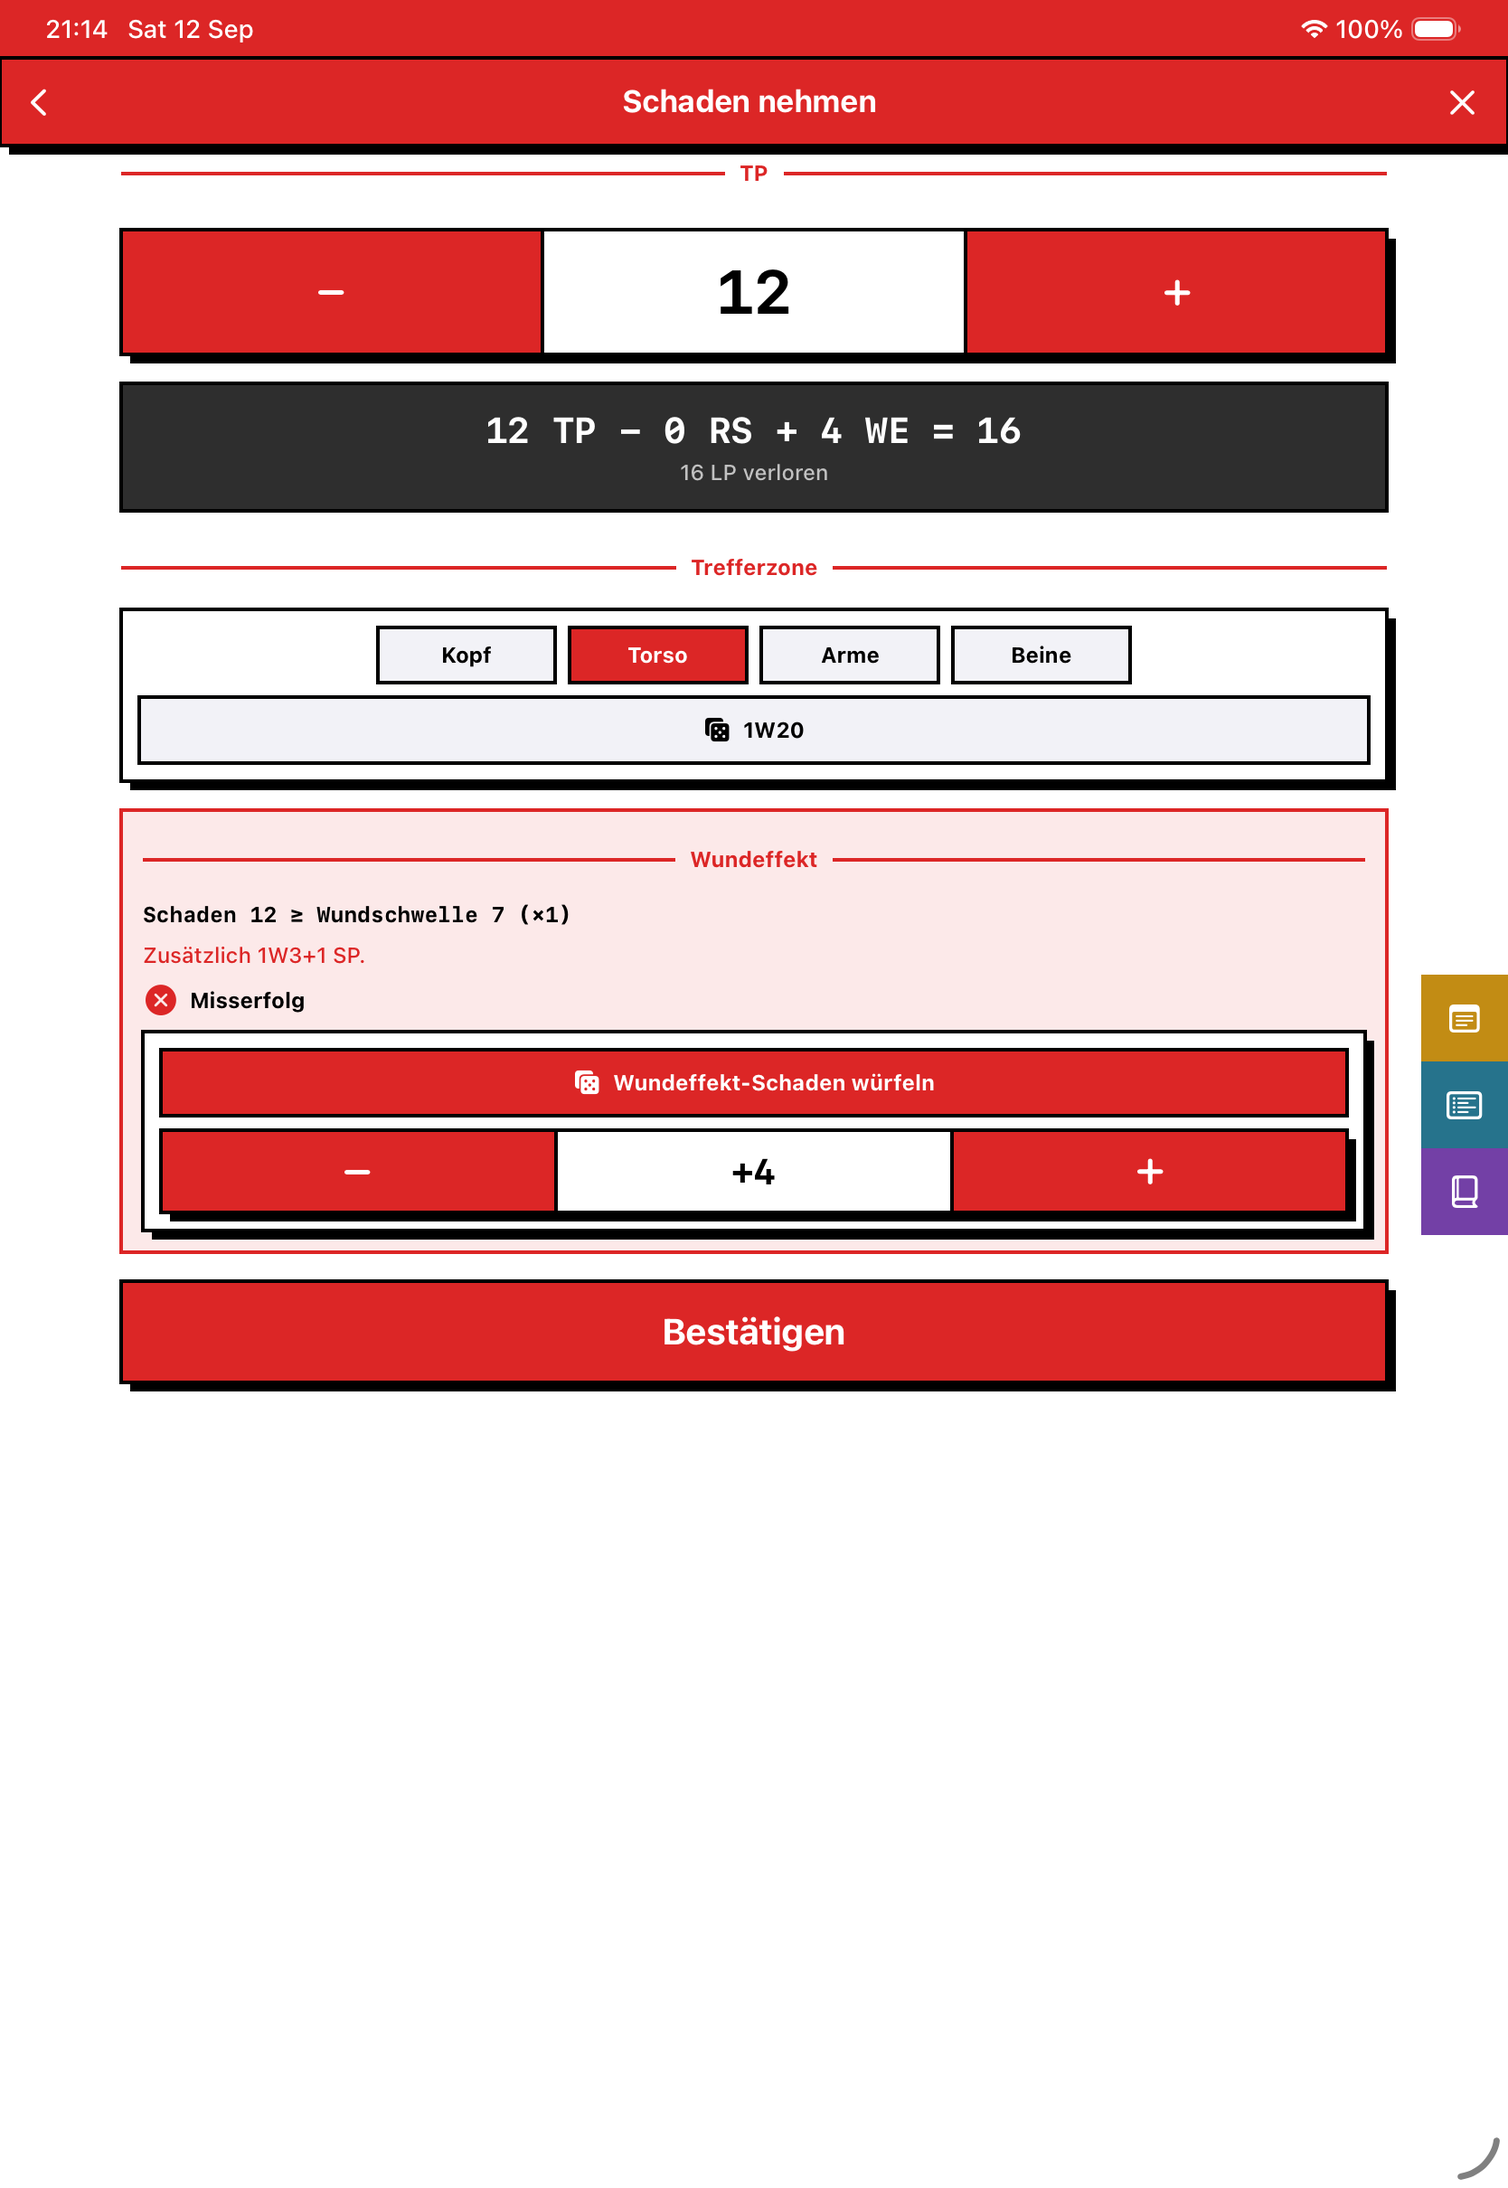
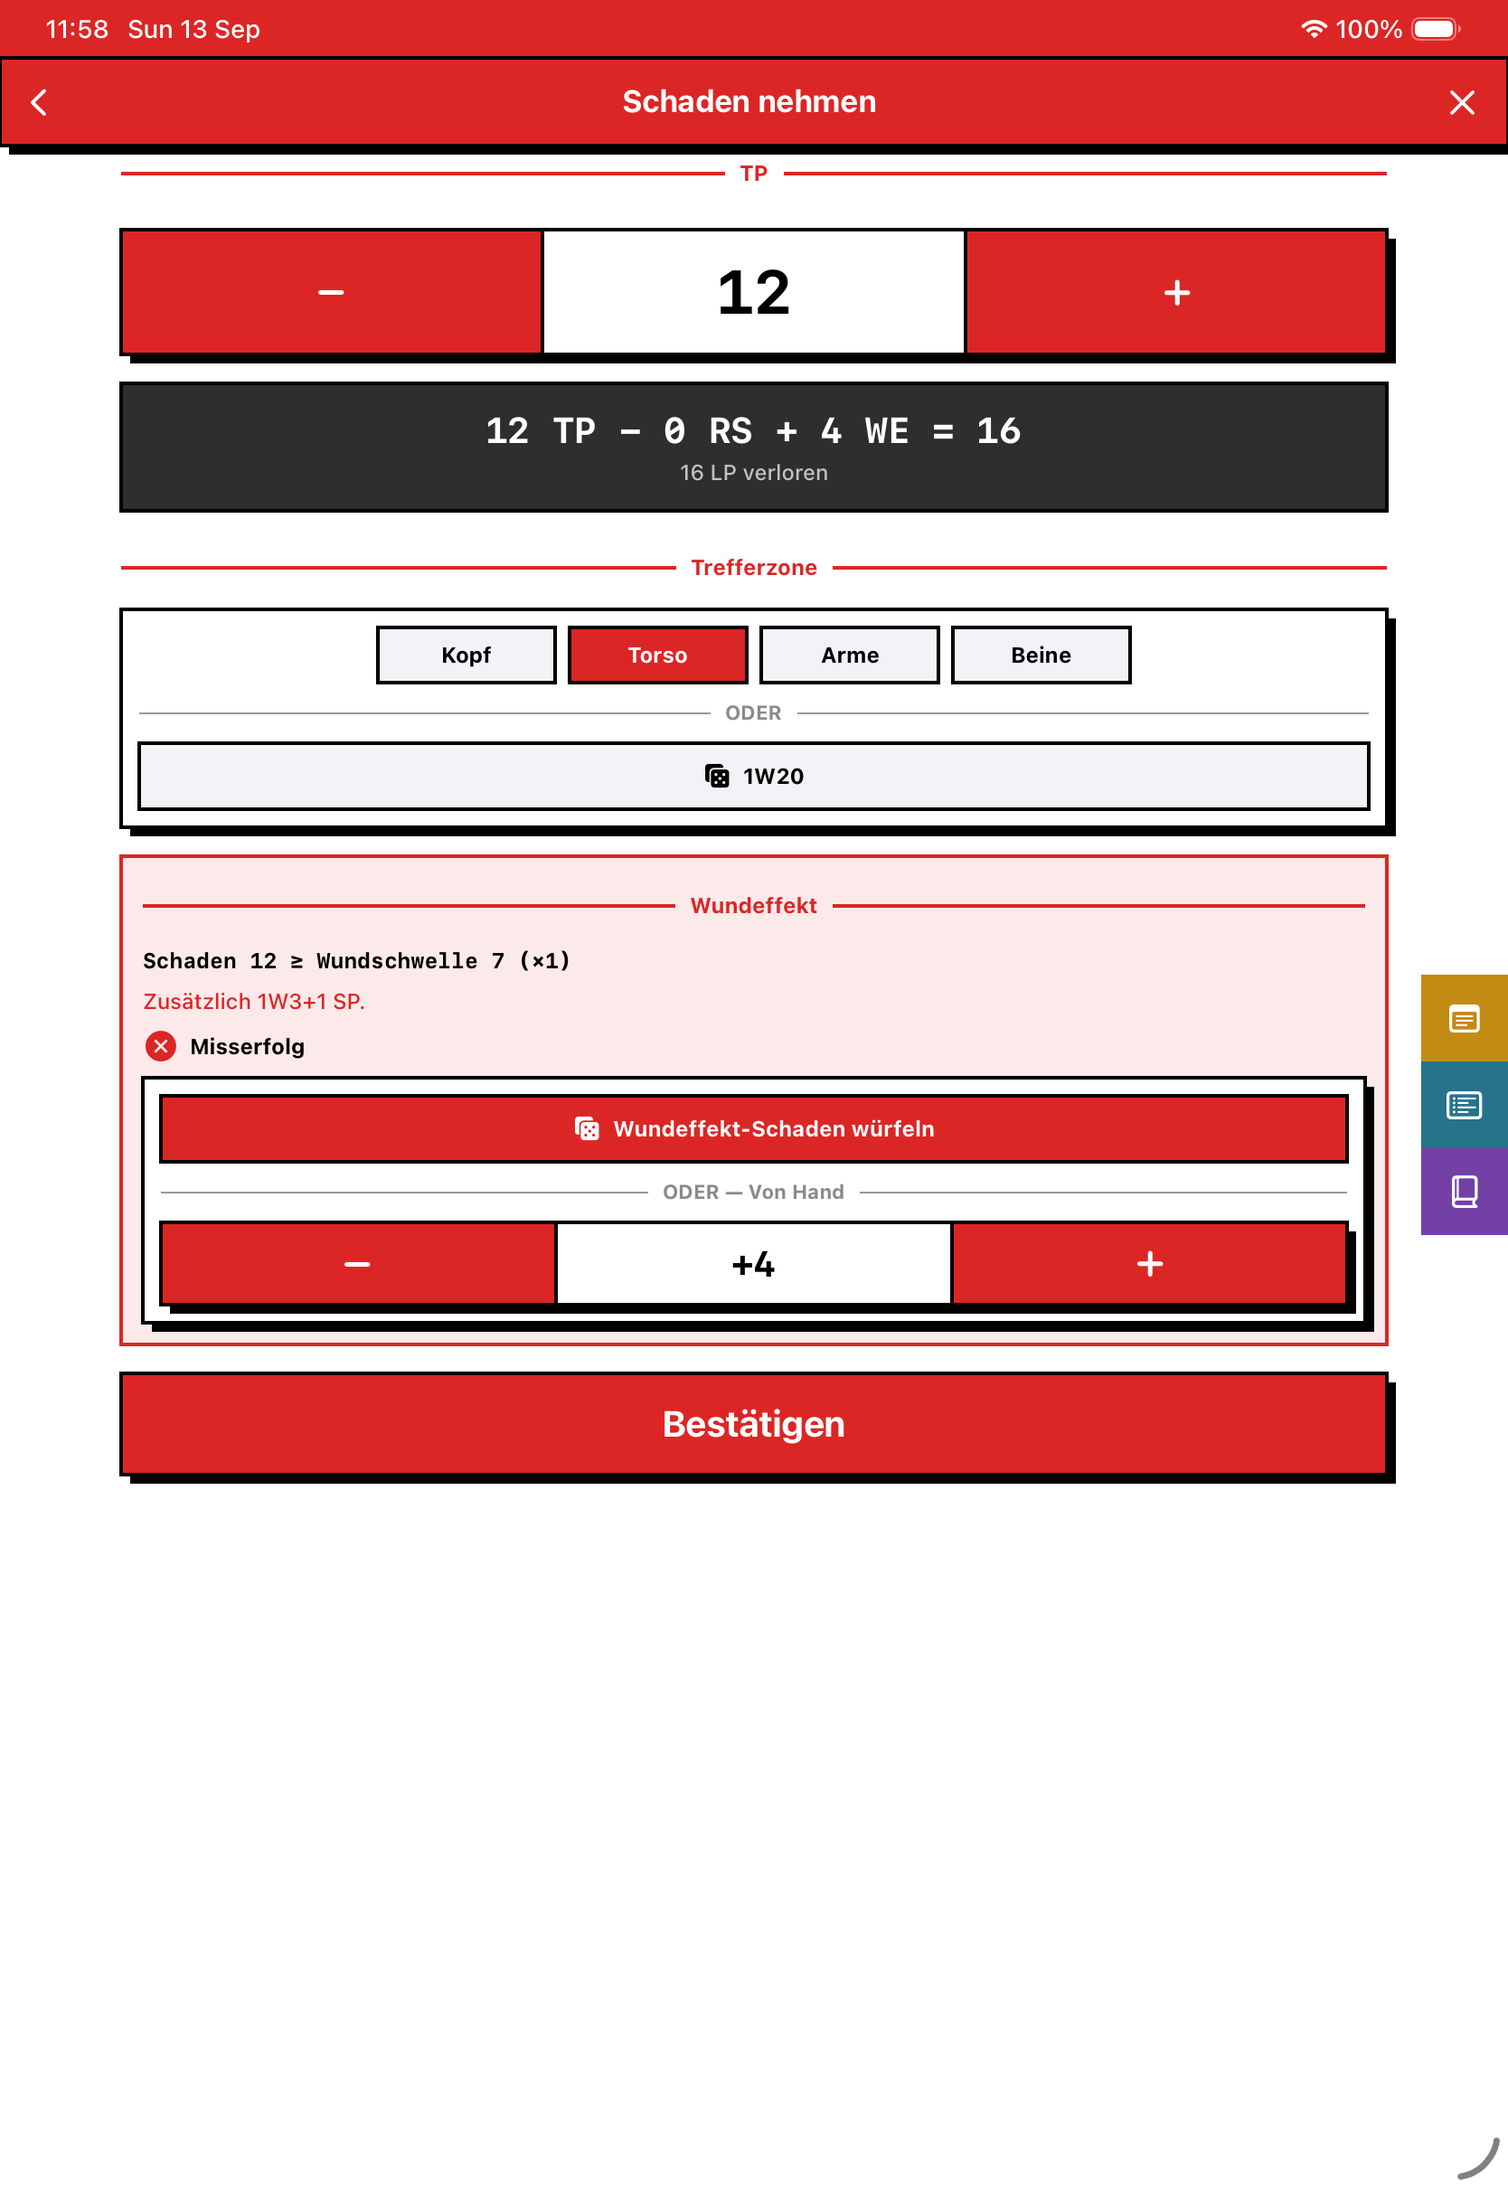
feat(combat): an either/or looks like one, and the 2W6 is not the damage
Three screens ask the player to pick one of two routes to the same answer:
the basic rule or the Kritische-Erfolge table, the Trefferzone by name or by
1W20, the Wundeffekt damage rolled or entered. Each was two controls stacked
in a box, which reads as two unrelated actions. `DSAOrDivider` puts an ODER
rule between the branches and both now carry the same weight — the critical
choice had a dark button and a red one, this app's secondary/primary idiom,
recommending the table where the rules recommend neither.

The critical screen's `4 + 3 = 7` was three bare boxes with the sum in a dark
bar: the grammar this app uses for a result total, on a screen about damage,
with nothing saying what the 7 was. It reads as the TP, and the reader is left
asking whether the hit does 7 or 14. It is the shared breakdown box now, and
its total row names it — `Kategorie (2W6)`. The multiplier bar says when it
lands: the TP are not known until the damage is rolled, where the x2 already
appears as the last row of the calculation.

249 unit tests pass; the UI suite was run in chunks (memory) and all of it
passes. Screenshots 01-22, 28 and 29 regenerated.

Changed region(s): [[0.0624, 0.3099, 0.9353, 0.6818], [0.0935, 0.0, 0.1559, 0.031], [0.0312, 0.0, 0.0624, 0.031]]

diff --git a/Hesindion/Views/CombatCriticalSuccessView.swift b/Hesindion/Views/CombatCriticalSuccessView.swift
@@ -262,6 +262,10 @@ struct CombatCriticalSuccessView: View {
                 .foregroundStyle(.secondary)
                 .frame(maxWidth: .infinity, alignment: .leading)
 
+            // Both routes carry the same fill. They used to be dark and red —
+            // this app's secondary/primary idiom — which recommended the table,
+            // and the rules recommend neither ("kann auch diese Tabelle benutzt
+            // werden").
             resolutionButton(
                 title: L(table.basicRuleKey),
                 subtitle: L("critical.basicRule"),
@@ -272,10 +276,12 @@ struct CombatCriticalSuccessView: View {
                 logIfResolved()
             }
 
+            DSAOrDivider()
+
             resolutionButton(
                 title: L("critical.rollTable"),
                 subtitle: L("critical.fokusRule"),
-                fill: combatAccent,
+                fill: Color.dsaDark,
                 identifier: "combat.critical.takeTable"
             ) {
                 resolution = .table
@@ -373,31 +379,23 @@ struct CombatCriticalSuccessView: View {
         }
     }
 
+    /// The 2W6 that picks the table row, in the same box every other calculation
+    /// in combat uses.
+    ///
+    /// It used to be `4 + 3 = 7` in three bare boxes, the sum in a dark bar — the
+    /// grammar of a result total, on a screen about damage, with nothing saying
+    /// what the 7 was. It reads as the damage, and the reader is left asking
+    /// whether the hit does 7 or 14. The total row now names it: a category roll.
     private func diceRow(_ dice: [Int]) -> some View {
-        HStack(spacing: 6) {
-            ForEach(Array(dice.enumerated()), id: \.offset) { index, value in
-                if index > 0 {
-                    Text("+").font(.dsaBody(.body))
-                }
-                Text("\(value)")
-                    .font(.dsaHeading(.title3))
-                    .fontDesign(.monospaced)
-                    .frame(maxWidth: .infinity)
-                    .padding(.vertical, 10)
-                    .background(Color(UIColor.systemBackground))
-                    .dsaBox(.flush)
-            }
-            Text("=").font(.dsaBody(.body))
-            Text("\(dice.reduce(0, +))")
-                .font(.dsaHeading(.title3))
-                .fontDesign(.monospaced)
-                .frame(maxWidth: .infinity)
-                .padding(.vertical, 10)
-                .background(Color.dsaDark)
-                .foregroundStyle(.white)
-                .dsaBox(.flush)
-        }
+        CombatBreakdownBox(
+            rows: dice.enumerated().map { index, value in
+                BreakdownRow(value: "\(value)", source: String(format: L("critical.die"), index + 1))
+            },
+            totalValue: "\(dice.reduce(0, +))",
+            totalSource: L("critical.category")
+        )
         .padding(.horizontal, 16)
+        .accessibilityElement(children: .contain)
         .accessibilityIdentifier("combat.critical.dice")
     }
 
@@ -424,7 +422,7 @@ struct CombatCriticalSuccessView: View {
             Text(label)
                 .font(.dsaMono(.body, emphasis: true))
             Spacer()
-            Text(L("critical.damageEffect"))
+            Text(L("critical.damageEffectWhen"))
                 .font(.dsaBody(.caption2))
                 .opacity(0.75)
         }

diff --git a/Hesindion/Theme/Strings.swift b/Hesindion/Theme/Strings.swift
@@ -576,6 +576,8 @@ enum DSAStrings {
         "critical.rollDetail":          "Roll detail",
         "critical.rerollPrompt":        "Roll again",
         "critical.damageEffect":        "Effect on damage",
+        "critical.damageEffectWhen":    "Applied on the damage roll",
+        "critical.die":                 "%d. d6",
         "critical.chooseTable":         "Which defence was this?",
         "critical.chooseMelee":         "Against a melee attack",
         "critical.chooseRanged":        "Against a ranged attack",
@@ -597,6 +599,8 @@ enum DSAStrings {
         "trefferzone.sfHalves.ranged":  "Aimed Shot halves the penalties.",
         "trefferzone.woundEffect":      "Wound Effect",
         "trefferzone.threshold":        "Damage %d ≥ Wound Threshold %d (×%d)",
+        "or":                           "OR",
+        "byHand":                       "By hand",
         "wundschwelle.label":           "Wound Threshold",
         "wundschwelle.below":           "Damage %d < Wound Threshold %d",
         "wundschwelle.reached":         "Wound Threshold reached",
@@ -1387,6 +1391,8 @@ enum DSAStrings {
         "critical.rollDetail":          "Detail würfeln",
         "critical.rerollPrompt":        "Nochmal würfeln",
         "critical.damageEffect":        "Auswirkung auf den Schaden",
+        "critical.damageEffectWhen":    "Wird beim Schadenswurf angewandt",
+        "critical.die":                 "%d. W6",
         "critical.chooseTable":         "Was wurde verteidigt?",
         "critical.chooseMelee":         "Ein Nahkampfangriff",
         "critical.chooseRanged":        "Ein Fernkampfangriff",
@@ -1408,6 +1414,8 @@ enum DSAStrings {
         "trefferzone.sfHalves.ranged":  "Gezielter Schuss halbiert die Aufschläge.",
         "trefferzone.woundEffect":      "Wundeffekt",
         "trefferzone.threshold":        "Schaden %d ≥ Wundschwelle %d (×%d)",
+        "or":                           "ODER",
+        "byHand":                       "Von Hand",
         "wundschwelle.label":           "Wundschwelle",
         "wundschwelle.below":           "Schaden %d < Wundschwelle %d",
         "wundschwelle.reached":         "Wundschwelle erreicht",

diff --git a/Hesindion/Theme/DSAOrDivider.swift b/Hesindion/Theme/DSAOrDivider.swift
@@ -1,0 +1,36 @@
+import SwiftUI
+
+/// The rule between the two branches of an either/or: `[ A ]  —— ODER ——  [ B ]`.
+///
+/// Several screens ask the player to pick one of two routes to the same answer —
+/// take the basic rule or roll the table, name the Trefferzone or roll 1W20, roll
+/// the Wundeffekt damage or enter what was rolled at the table. Each was drawn as
+/// two controls stacked in a box, which reads as two independent actions: nothing
+/// said "one *or* the other", and where the two carried different fills (dark and
+/// red) the colour said "secondary, primary" — a recommendation the rules do not
+/// make.
+///
+/// Same shape as `combatSectionLabel`, one step quieter: the section label says
+/// what a group is, this says how its parts relate.
+struct DSAOrDivider: View {
+    var label: String = L("or")
+
+    var body: some View {
+        HStack(spacing: 8) {
+            rule
+            Text(label)
+                .font(.dsaHeading(.caption2))
+                .foregroundStyle(.secondary)
+                .fixedSize()
+            rule
+        }
+        .padding(.vertical, 2)
+        .accessibilityHidden(true)
+    }
+
+    private var rule: some View {
+        Rectangle()
+            .frame(height: DSALayout.divider)
+            .foregroundStyle(Color.dsaBorder.opacity(0.4))
+    }
+}

diff --git a/Hesindion/Views/CombatWoundEffectViews.swift b/Hesindion/Views/CombatWoundEffectViews.swift
@@ -117,6 +117,10 @@ struct WoundEffectDamageControl: View {
             .disabled(isDisabled)
             .accessibilityIdentifier("combat.takeDamage.rollExtraDamage")
 
+            // At the table the number is as often spoken to you as rolled by you
+            // (ADR-0005), so neither route is the fallback of the other.
+            DSAOrDivider(label: "\(L("or")) — \(L("byHand"))")
+
             DSAStepper(
                 tint: isDisabled ? Color.dsaDisabled : Color.groupCombat,
                 decrementDisabled: isDisabled || rolled <= 0,

diff --git a/Hesindion/Views/CombatZonePicker.swift b/Hesindion/Views/CombatZonePicker.swift
@@ -46,7 +46,11 @@ struct CombatZonePicker: View {
                 .frame(maxWidth: .infinity)
                 .fixedSize(horizontal: false, vertical: true)
 
+                // Naming a zone and rolling for one are two routes to the same
+                // answer, so the group says so rather than stacking two controls
+                // that read as unrelated actions.
                 if let accessory {
+                    DSAOrDivider()
                     accessory
                 }
             }

diff --git a/CHANGELOG.md b/CHANGELOG.md
@@ -12,6 +12,7 @@ The format is based on [Keep a Changelog](https://keepachangelog.com/en/1.0.0/).
 
 ### Fixed
 
+- **The critical table's 2W6 read as the damage.** `4 + 3 = 7` sat in three bare boxes with the sum in a dark bar — the grammar this app uses for a *result total* — on a screen about damage, with nothing naming it. "Is the hit 7 or 14?" is the obvious question, and the screen answered neither. The roll is now the same breakdown box as every other calculation, and its total row says what it is: `Kategorie (2W6)`. The multiplier bar says when it lands: "Wird beim Schadenswurf angewandt" (the TP itself are not known until the damage is rolled, where the ×2 appears as the last row of the calculation)
 - **A finished combat could not be deleted from the log.** The combat header only collapsed its rows, and a collapsed combat leaves nothing to swipe, so the single-entry swipe — the only way in — was out of reach as well. The header now carries a visible trash for the whole fight, with the number of entries named in the confirmation, and every row carries the same trash beside its timestamp (the swipe still works). Deleting reverses each entry's LP change, as a single delete already did (issue #13)
 - The log's delete confirmation was a system `confirmationDialog` — rounded corners, blurred material, tinted text, on a screen built without any of the three. It is `DSAModal` now, drawn by `SplitContentLayout` rather than inside the panel, because a modal placed in a side panel is bounded by it
 - The "Held" label above the LP bar was printed even on foot, where it labels the only bar on screen. It appears with the mount's bar, which is what it exists to tell apart (issue #24)
@@ -27,6 +28,7 @@ The format is based on [Keep a Changelog](https://keepachangelog.com/en/1.0.0/).
 
 ### Added
 
+- **`DSAOrDivider` — an either/or now looks like one.** Three screens ask the player to pick one of two routes to the same answer (take the basic rule or roll the Kritische-Erfolge table, name the Trefferzone or roll 1W20, roll the Wundeffekt damage or enter what was rolled at the table), and each was two controls stacked in a box, which reads as two unrelated actions. They are one group with an ODER rule between them now, both branches at the same weight — the critical choice had a dark button and a red one, this app's secondary/primary idiom, which recommended the table where the rules recommend neither
 - **The Wundschwelle is on the take-damage screen whether or not the Trefferzonen Fokus-Regel is on** — the comparison lived inside the Wundeffekt panel, which needs that rule *and* a rolled zone, so a group not using the rule had to remember the threshold and do the arithmetic in their head. The row states where the hit stands either way, and says what is still missing before a Wundeffekt rather than implying one it cannot name. The zone effect itself remains the focus rule's business (issue #23)
 - **The damage roll shows every part**: the dice, the weapon's own bonus, each ability or manoeuvre that added to it, anything entered by hand, and a critical's multiplier last — `5 (1W6) +4 Waffe +2 Wuchtschlag = 11 TP`. The bonuses now travel to the roll as named parts instead of being folded into a formula string, which is what made them uncheckable and, twice, double-counted. The announcement screen shows the same calculation before the dice (issue #19)
 - The AT/PA/AW calculation is **always** on the roll screen, even when nothing modifies it: "nothing is modifying this roll" is itself the answer, and a roll that shows only its result cannot be checked at all

diff --git a/AGENTS.md b/AGENTS.md
@@ -104,6 +104,8 @@ Three known intermittent failures — none of them regressions:
 The UI follows a **Neo-Brutalist** design theme.
 
 - **No system dialogs.** A confirmation is `DSAModal` + `DSAModalButton`, never `.alert` or `.confirmationDialog`: a system dialog brings rounded corners, blurred material and tinted text onto a screen built without any of the three. The same goes for `.contextMenu`
+- **An either/or is drawn as one group with a `DSAOrDivider` between the branches**, both at the same visual weight. Two controls stacked in a box read as two independent actions, and giving one the red fill turns a free choice into a recommendation the rules do not make
+- **One calculation grammar: `CombatBreakdownBox`.** Parts on top (value left, where it comes from right), the result in the dark bar inside the same border. A bare number in a dark bar is that grammar's *total*, so anything shown that way must say what it is the total of — a dice sum presented like a result reads as the damage
 - **A modal is a sibling of the layout, not a child of a panel.** It is drawn in the root `ZStack` next to `SplitContentLayout` (see `HeroDetailView`, and `SplitContentLayout` itself for the log's delete), because a modal placed inside a side panel is bounded by it — in landscape that is a third of the screen
 
 ## Swift Configuration
